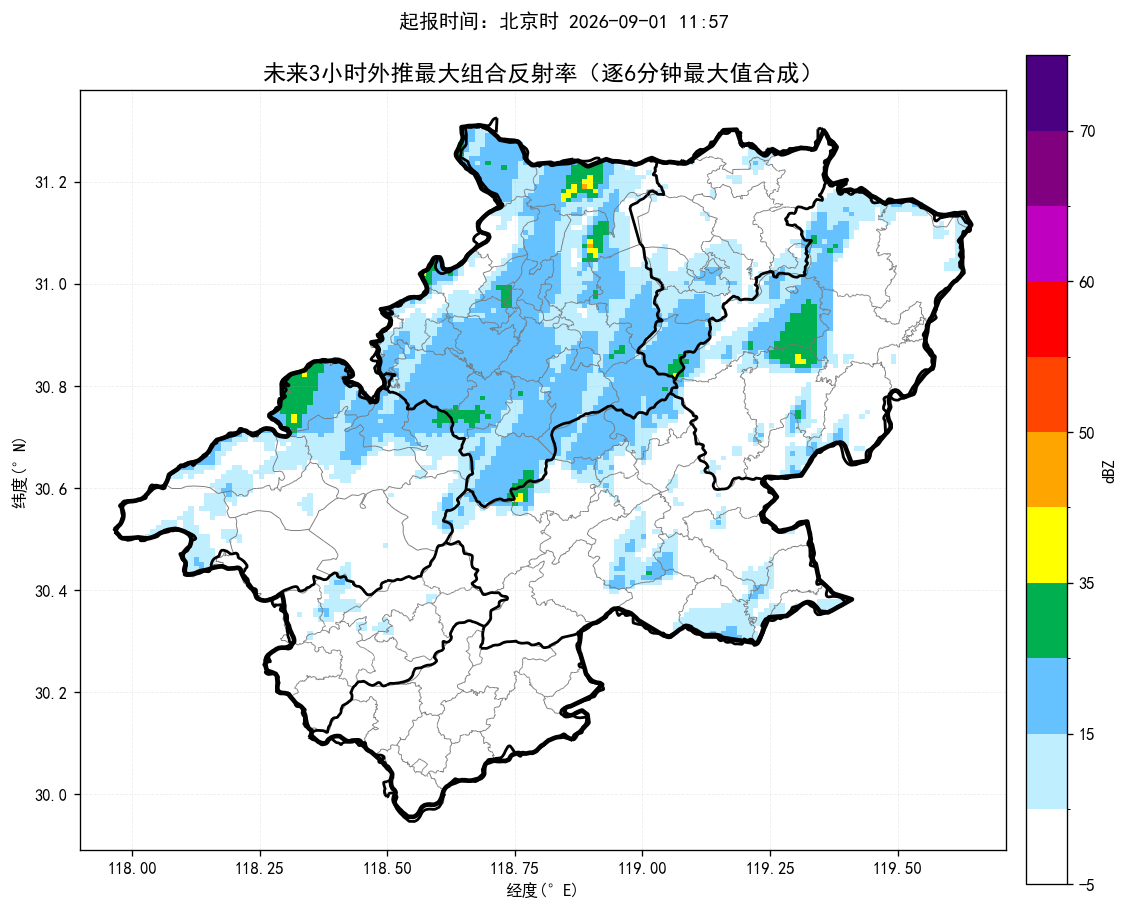
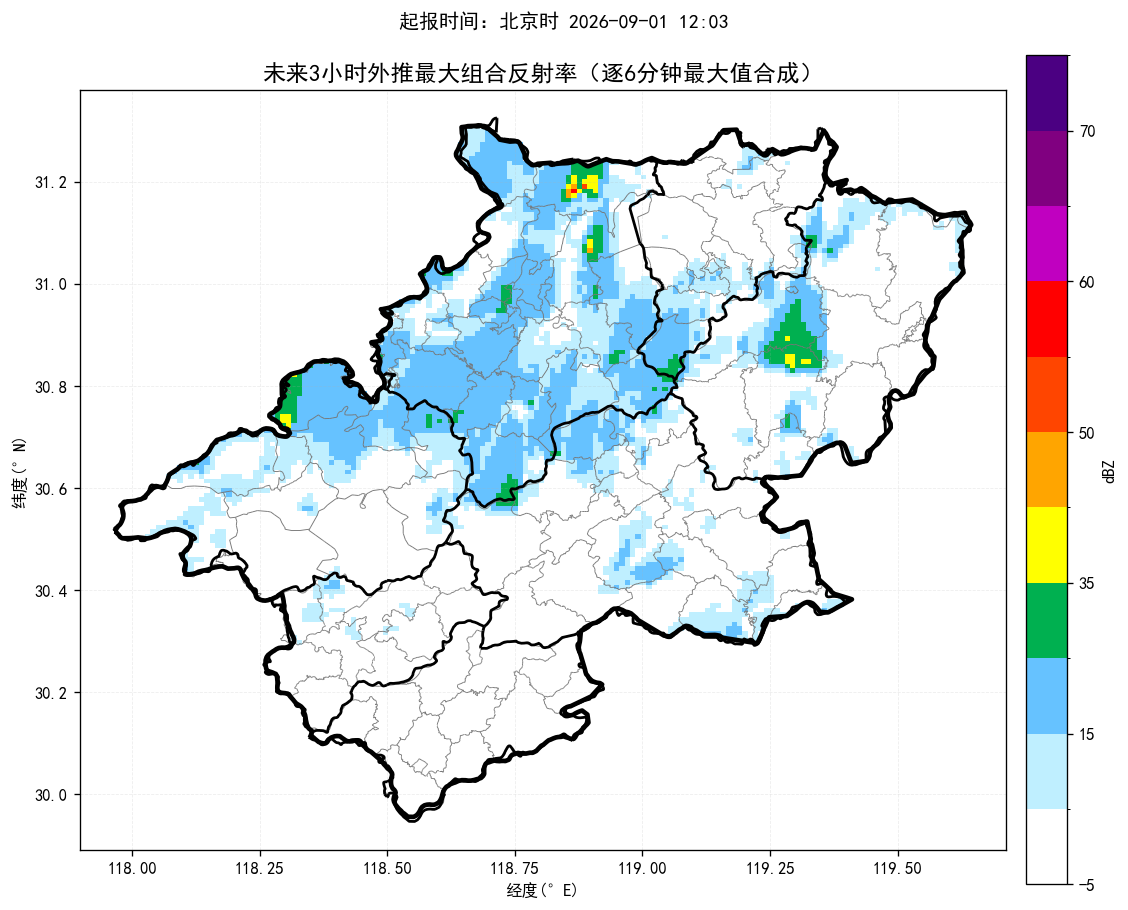
update nowcast products

diff --git a/index.html b/index.html
@@ -14,14 +14,14 @@ img.product{display:block;width:100%;height:auto;margin:10px auto 26px;border:1p
 .footer{font-size:13px;color:#777;text-align:center;margin-top:30px}
 @media(max-width:700px){.sheet{margin:0;padding:18px 15px}.alert-title{font-size:22px}.county-line{font-size:17px}.prob{font-size:18px}}
 </style></head><body><main class="sheet">
-<div class="time">起报时间：北京时 2026-09-01 11:57</div>
-<div class="alert-title">未来一小时降水量超过 20 毫米的乡镇：</div><div class="county-line">无</div>
+<div class="time">起报时间：北京时 2026-09-01 12:03</div>
+<div class="alert-title">未来一小时降水量超过 20 毫米的乡镇：</div><div class="county-line">宣州区：狸桥镇</div>
 <div class="alert-title">未来三小时降水量超过 50 毫米的乡镇：</div><div class="county-line">无</div>
-<div class="alert-title">未来三小时雷暴大风（组合反射率 > 55 dBZ）的乡镇：</div><div class="county-line">无</div>
-<div class="prob">最大降水量概率预估：宣城市范围内未来三小时降水偏小，最大预报约7.5毫米，暂不进行50/80/100毫米概率预估。</div>
-<div class="section-title">未来降水预报图：</div><img class="product auto-refresh-product" data-src="短临降水预报.png" src="短临降水预报.png?v=20260901120320" alt="未来降水预报图">
-<div class="section-title">未来三小时组合反射率图：</div><img class="product auto-refresh-product" data-src="未来3小时组合反射率.png" src="未来3小时组合反射率.png?v=20260901120320" alt="未来三小时组合反射率图">
-<div class="section-title">未来三小时雷暴大风图：</div><img class="product auto-refresh-product" data-src="未来3小时雷暴大风.png" src="未来3小时雷暴大风.png?v=20260901120320" alt="未来三小时雷暴大风图">
+<div class="alert-title">未来三小时雷暴大风（组合反射率 > 55 dBZ）的乡镇：</div><div class="county-line">宣州区：狸桥镇</div>
+<div class="prob">最大降水量概率预估：宣城市范围内未来三小时累计降水达到50毫米概率约3%，达到80毫米概率约0%，达到100毫米概率约0%。</div>
+<div class="section-title">未来降水预报图：</div><img class="product auto-refresh-product" data-src="短临降水预报.png" src="短临降水预报.png?v=20260901120900" alt="未来降水预报图">
+<div class="section-title">未来三小时组合反射率图：</div><img class="product auto-refresh-product" data-src="未来3小时组合反射率.png" src="未来3小时组合反射率.png?v=20260901120900" alt="未来三小时组合反射率图">
+<div class="section-title">未来三小时雷暴大风图：</div><img class="product auto-refresh-product" data-src="未来3小时雷暴大风.png" src="未来3小时雷暴大风.png?v=20260901120900" alt="未来三小时雷暴大风图">
 <div class="footer">三张产品图每 60 秒自动刷新一次；每次请求自动附加新的URL参数以绕过缓存。</div>
 <script>
 (function() {
